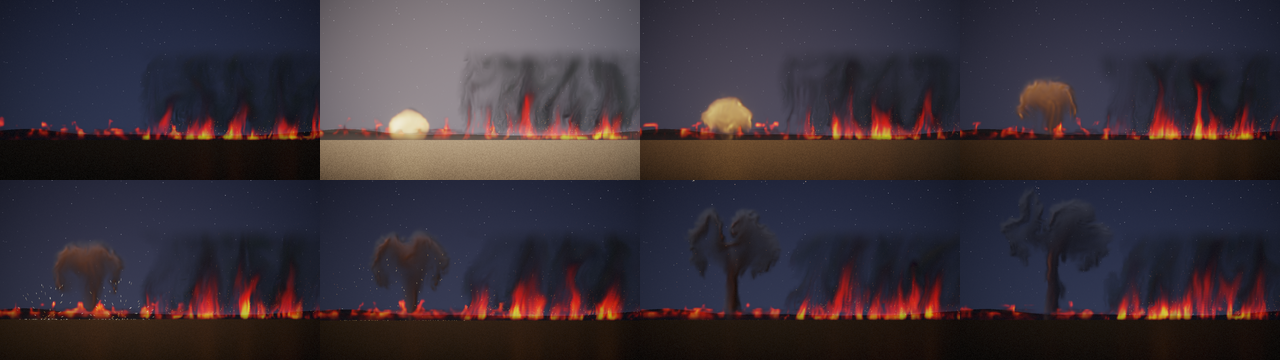
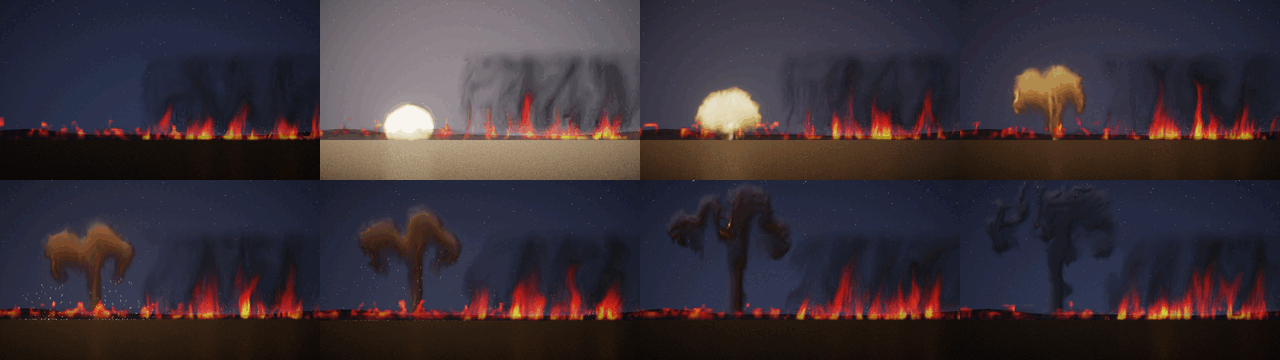
Study O: the prairie's keyframes figure redrawn with the replaced mushroom, its before and after in REPORT §16.3.4; the model links in LIBRARY.md, EFFECTS_WATER.md and EFFECTS_BLAZE.md

diff --git a/docs/LIBRARY.md b/docs/LIBRARY.md
@@ -357,17 +357,18 @@ library's night; a game draws its own water.
 Water in two layers ([EFFECTS_WATER.md](EFFECTS_WATER.md)), `library/water.nvfxl`. In `waterfall`, `fountain`,
 `splash` and `rain_shaft` the ordered body is one of the four water models (the simulator's water presets, trained with
 study D's recipe and tested: the fountain and the rain shaft work as steam did, the waterfall and the splash are weak by
-the test's rule, as they only tie the nearest flipbook's average picture), and the random detail around it is seeded:
-spray thrown off the body's water and pools churned where it lands (both read the field bus), drops, rings and foam.
-The other entries are the seeded layer alone (*drawn*): their motion a seeded simulation, their look drawn, their mist
+the test's rule, as they only tie the nearest flipbook's average picture; the splash was replaced by study O's, whose
+average picture is 0.40 dB closer to a real run's, [REPORT.md](REPORT.md) §16.3), and the random detail around it is
+seeded: spray thrown off the body's water and pools churned where it lands (both read the field bus), drops, rings and
+foam. The other entries are the seeded layer alone (*drawn*): their motion a seeded simulation, their look drawn, their mist
 and spray clouds the fog model fed where the water lands (the steam model for the geyser); `waterfall_drawn` and
 `rain_shaft_drawn` are the drawn versions of the two kept beside the learned ones. *Procedural* in the plays column
 means no model. None of the entries draws rock or ground: a fall whose lip is in its box starts in mid-air, so a game
 puts it against its own cliff. The water models are linked into the models' folder with the others
-(`ln -s ../../fx_water/models/d/{waterfall,fountain,splash,rainshaft}.nvfx .`). The waterfall and the rain shaft play
-with `swirl 0, passes 2` on their `effect` line: since study O ([REPORT.md](REPORT.md) §16) their detail layer runs in
-two passes a frame, which takes off the horizontal bands one pass laid across the falling water
-([EFFECTS_WATER.md](EFFECTS_WATER.md) §7.1).
+(`ln -s ../../fx_water/models/d/{waterfall,fountain,rainshaft}.nvfx ../../o_fix/models/splash.nvfx .`). The waterfall
+and the rain shaft play with `swirl 0, passes 2` on their `effect` line: since study O ([REPORT.md](REPORT.md) §16)
+their detail layer runs in two passes a frame, which takes off the horizontal bands one pass laid across the falling
+water ([EFFECTS_WATER.md](EFFECTS_WATER.md) §7.1).
 
 | effect | what it is | plays | box, anchor | runs | parameters (default) | how it looks |
 |---|---|---|---|---|---|---|
@@ -560,8 +561,10 @@ study D's steam, round 5's fog, cloud and jet, and
 study L's magic, orb and vortex ([REPORT.md](REPORT.md) §12.1, which replaced study D's magic and round 5's orb and
 vortex), and round 7's wildfire, coals and mushroom ([EFFECTS_BLAZE.md](EFFECTS_BLAZE.md)) and launch, puffs and ink
 ([EFFECTS_FLOW.md](EFFECTS_FLOW.md)), and round 8's waterfall, fountain, splash and rainshaft
-([EFFECTS_WATER.md](EFFECTS_WATER.md)). The orb plays at float whatever the stage's precision (`precision float` on its
-`effect` line): study L's orb failed study K's int8 rule on its average picture ([REPORT.md](REPORT.md) §13.9). Links are enough:
+([EFFECTS_WATER.md](EFFECTS_WATER.md)); the mushroom and the splash are study O's (a mean state, and for the mushroom a
+stepper fine-tuned on 30-frame windows; [REPORT.md](REPORT.md) §16.3, which replaced round 7's and round 8's). The
+orb plays at float whatever the stage's precision (`precision float` on its `effect` line): study L's orb failed study
+K's int8 rule on its average picture ([REPORT.md](REPORT.md) §13.9). Links are enough:
 
 ```sh
 mkdir -p $NEURALVFX_DATA/library/models && cd $NEURALVFX_DATA/library/models
@@ -571,9 +574,9 @@ ln -s ../../fx/models/d/steam.nvfx .
 ln -s ../../fx_atmos/models/d/fog.nvfx ../../m3/models/dust.nvfx ../../fx_atmos/models/d/cloud.nvfx .
 ln -s ../../fx_energy/models/d/jet.nvfx .
 ln -s ../../l_swirl/models/v3/magic.nvfx ../../l_swirl/models/v3/orb.nvfx ../../l_swirl/models/v3/vortex.nvfx .
-ln -s ../../fx_blaze/models/d/wildfire.nvfx ../../fx_blaze/models/d/coals.nvfx ../../fx_blaze/models/d/mushroom.nvfx .
+ln -s ../../fx_blaze/models/d/wildfire.nvfx ../../fx_blaze/models/d/coals.nvfx ../../o_fix/models/mushroom.nvfx .
 ln -s ../../fx_flow/models/d/launch.nvfx ../../fx_flow/models/d/puffs.nvfx ../../fx_flow/models/d/ink.nvfx .
-ln -s ../../fx_water/models/d/waterfall.nvfx ../../fx_water/models/d/fountain.nvfx ../../fx_water/models/d/splash.nvfx .
+ln -s ../../fx_water/models/d/waterfall.nvfx ../../fx_water/models/d/fountain.nvfx ../../o_fix/models/splash.nvfx .
 ln -s ../../fx_water/models/d/rainshaft.nvfx .
 ```
 

diff --git a/docs/EFFECTS_BLAZE.md b/docs/EFFECTS_BLAZE.md
@@ -441,14 +441,17 @@ and ash begins to fall (`emit ash`). Nothing was added to the compositor or the 
 The video (rendered at the runtime's int8 default) and the full keyframes are under the data root's `fx_blaze/scene`
 (outside git); the keyframes' SHA-256 are in `results/experiments/fx_blaze_frozen.csv` and `ctest -R
 ScriptedPrairieFrozen` checks them (pinned to float, skipped without the effects in `NEURALFX_MODELS_BLAZE`, by default
-`$NEURALVFX_DATA/fx_blaze/models/scene`). They are the same on 1 and 2 threads. It plays without an allocation in its
+`$NEURALVFX_DATA/fx_blaze/models/scene`, whose `mushroom.nvfx` links study O's since it replaced the round's, REPORT
+§16.3; the keyframes from 2.1 s on changed with it). They are the same on 1 and 2 threads. It plays without an allocation in its
 frame loop, at 47 ms per frame on 2 threads and 36 ms on 4 on the busy machine (its eight modules' steps 3 to 8 ms of
 it; provisional).
 
 What works: the three read as a grass fire, burnt ground and a distant mushroom cloud, one flash lights them and one
 shock wave moves them. What does not, yet: the coals are a thin strip at this scale; the wildfire's smoke ends in a
 soft line at its tiles' tops; the mushroom's cap is ragged, and late in its life it looks more like a tree of smoke than
-a mushroom; its last frame is held while it fades.
+a mushroom; its last frame is held while it fades. Since study O (the mushroom replaced, §4.5) its fireball is bigger
+and brighter and its cap wider on a clearer stem from 3.4 to 4.6 s (the keyframes above are the new ones); the tree
+of smoke late on is the same.
 
 ## 7. What it means
 

diff --git a/docs/REPORT.md b/docs/REPORT.md
@@ -3579,6 +3579,14 @@ here; `library_round7`, `scene_prairie`, `effect_mushroom` and `real_vs_learned_
 
 ![The mushroom before (rows 1 and 3) and after study O (rows 2 and 4), at 1, 2, 3.5 and 5 s](figures/o_mushroom.png)
 
+Where a scene asks a start point for controls of its own, the mean state shows. The prairie plays start 13, a calm
+start, at controls (0.8, 0.6, 0.3): the new file moves it there, so its fireball is bigger and brighter and its cap
+wider on a clearer stem at 3.4 to 4.6 s; late on it spreads into the same tree of smoke (below: the prairie's keyframes
+at 2.6, 3.4, 4.1, 4.6 and 5.8 s cropped to the cloud, before on top, after below; the whole frames in
+[EFFECTS_BLAZE.md](EFFECTS_BLAZE.md) §6).
+
+![The prairie's mushroom before (top) and after study O (bottom)](figures/o_prairie_mushroom.png)
+
 ### 16.4 The rocket thruster's exhaust: a cold field on its tail (a library entry)
 
 **The flaw** ([LIBRARY.md](LIBRARY.md)): `rocket_thruster`'s exhaust (the jet model, recoloured blue) curls up at its

diff --git a/docs/EFFECTS_WATER.md b/docs/EFFECTS_WATER.md
@@ -476,7 +476,8 @@ build/nvfx_experiment d-eval --effects waterfall --root $NEURALVFX_DATA/fx_water
     --seed-base 7000000 --figures DIR2                                 # each effect once; rows merged, then d-report
 build/nvfx_experiment d-report $R
 # the models joined to the library's folder
-cd $NEURALVFX_DATA/library/models && ln -s ../../fx_water/models/d/{waterfall,fountain,splash,rainshaft}.nvfx .
+cd $NEURALVFX_DATA/library/models && ln -s ../../fx_water/models/d/{waterfall,fountain,rainshaft}.nvfx .
+ln -s ../../o_fix/models/splash.nvfx .                                # the splash since study O (REPORT §16.3)
 # the library's water entries: sheet and keyframes
 build/nvfx_gallery --library library --models $NEURALVFX_DATA/library/models --only waterfall,fountain,splash,... \
     --sheet water_sheet.png --keyframes water_kf --threads 2 --cell 256x192 --columns 6
